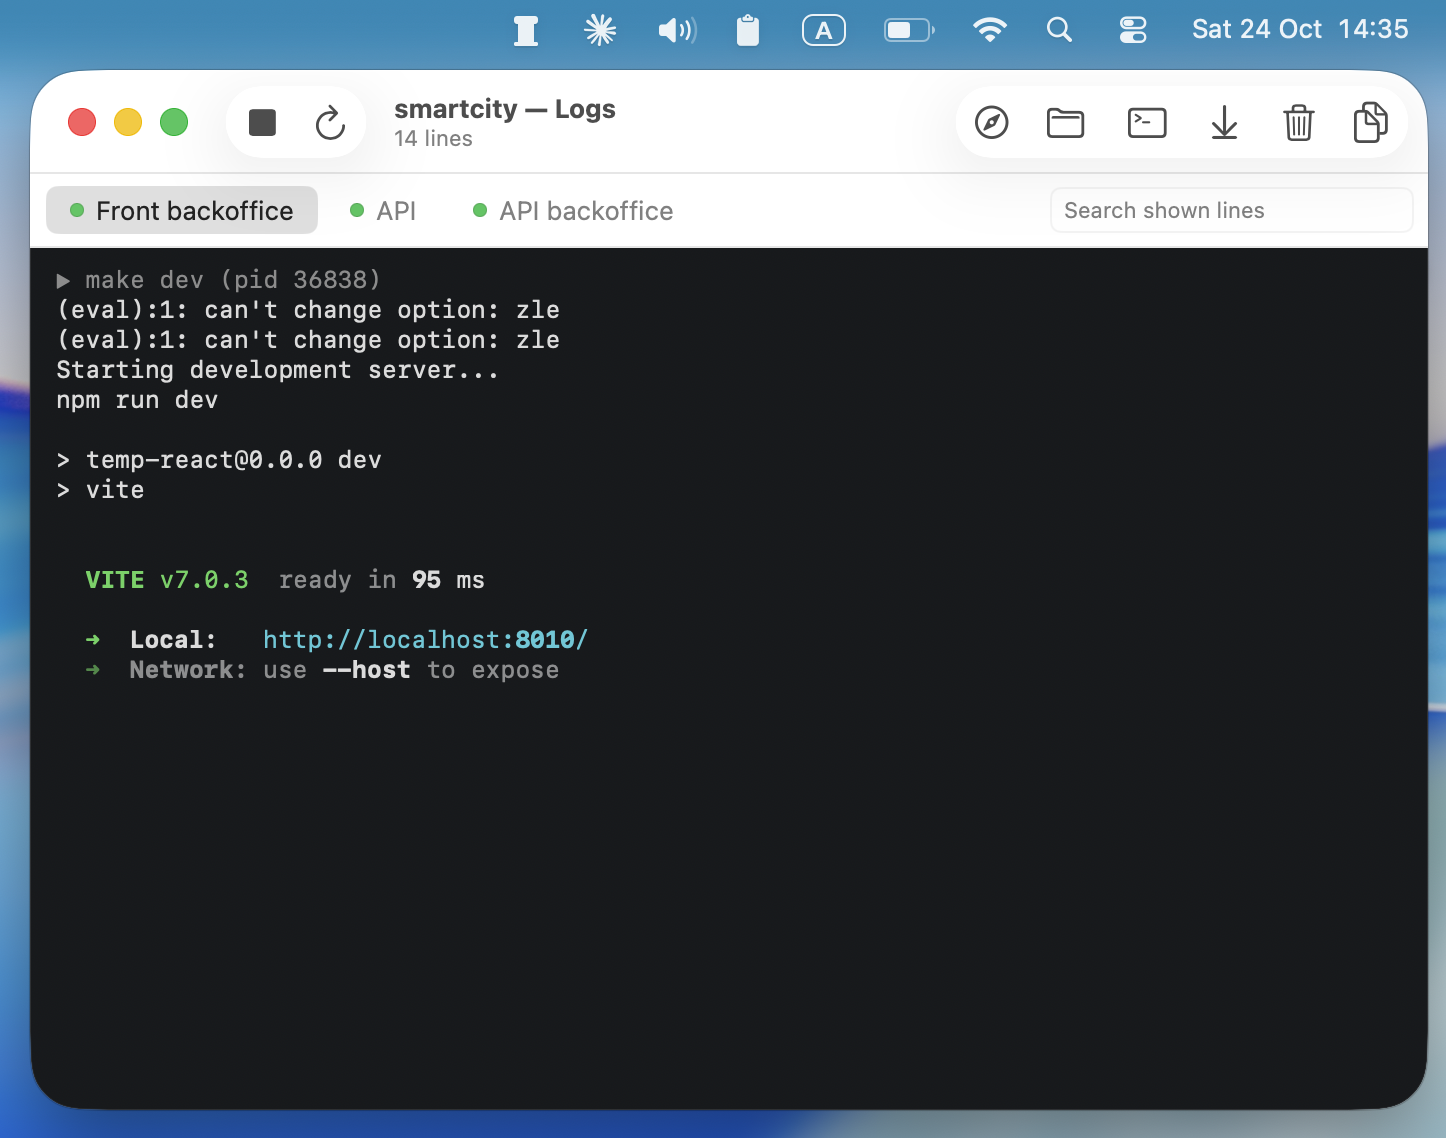
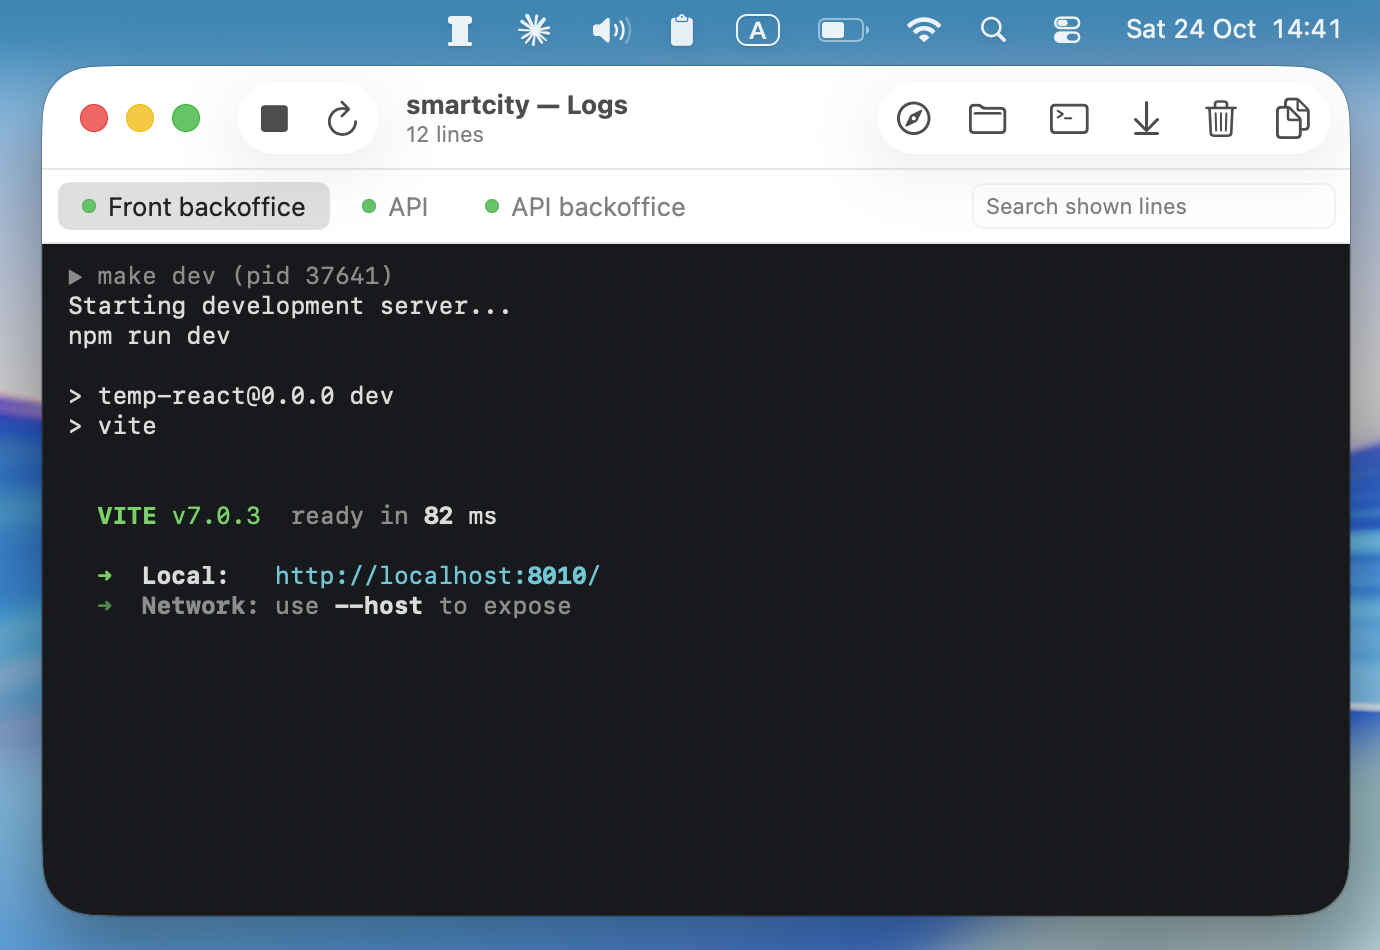
docs: retake the logs screenshot without shell noise

Changed region(s): [[0.0, 0.0, 1.0, 1.0], [0.0623, 0.4884, 0.4362, 0.6716]]

diff --git a/README.md b/README.md
@@ -110,7 +110,7 @@ Each command gets `PORTSIDE`, `PORTSIDE_SITE`, and `PORTSIDE_URL`, the site's ma
 ## Logs
 
 <p align="center">
-  <img src="assets/screenshots/logs.png" width="720" alt="The logs window for smartcity with a tab for each of its three processes and colored Vite output">
+  <img src="assets/screenshots/logs.png" width="690" alt="The logs window for smartcity with a tab for each of its three processes and colored Vite output">
 </p>
 
 Each site has a log window with one tab per process, main process first, then a tab for each command that ran since Portside started. The window keeps the last 10,000 lines of each process and renders ANSI colors. It scrolls with new output until you scroll up. The line count sits under the window title. The toolbar's left edge starts, stops, or restarts the selected process. Its right edge opens the site in the browser, opens the folder in Finder or Terminal, and holds Follow, Clear, and Copy All. The tabs sit in a bar under the toolbar, with a search field for the shown lines at its end. ⌘F focuses the search. To keep logs on disk as well, turn on log mirroring in **Settings**. Portside then writes `~/Library/Logs/Portside/<site>/<process>.log`, and `<command>.log` for a command.
